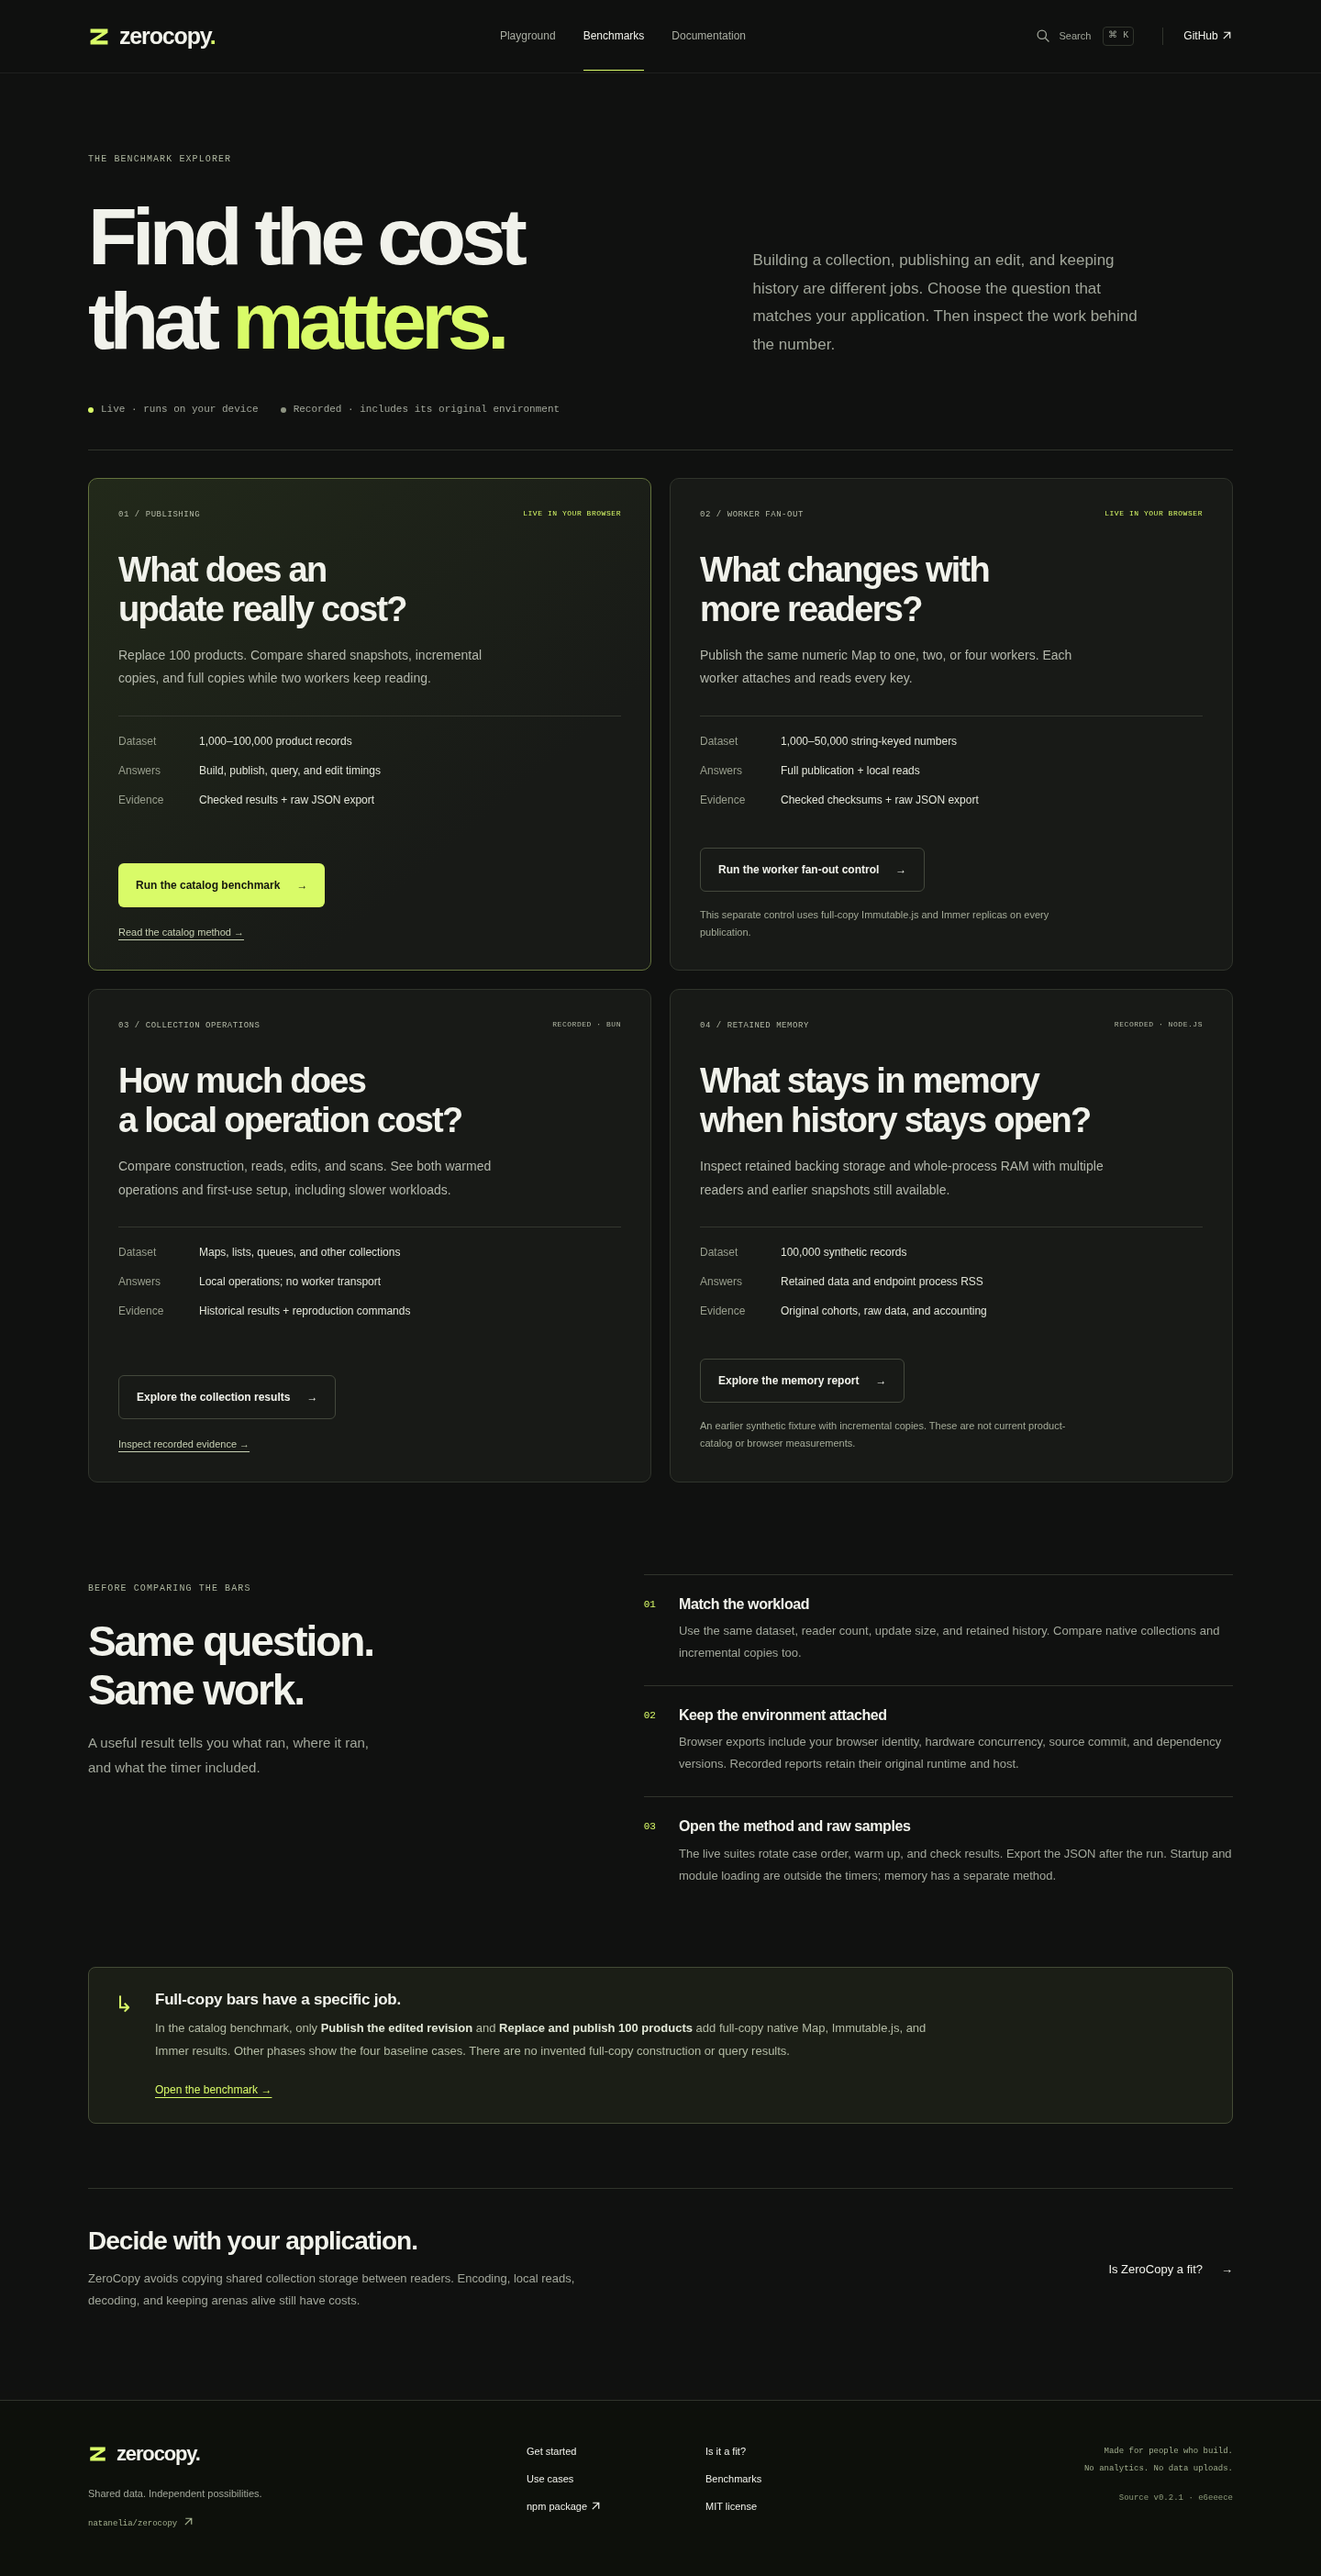
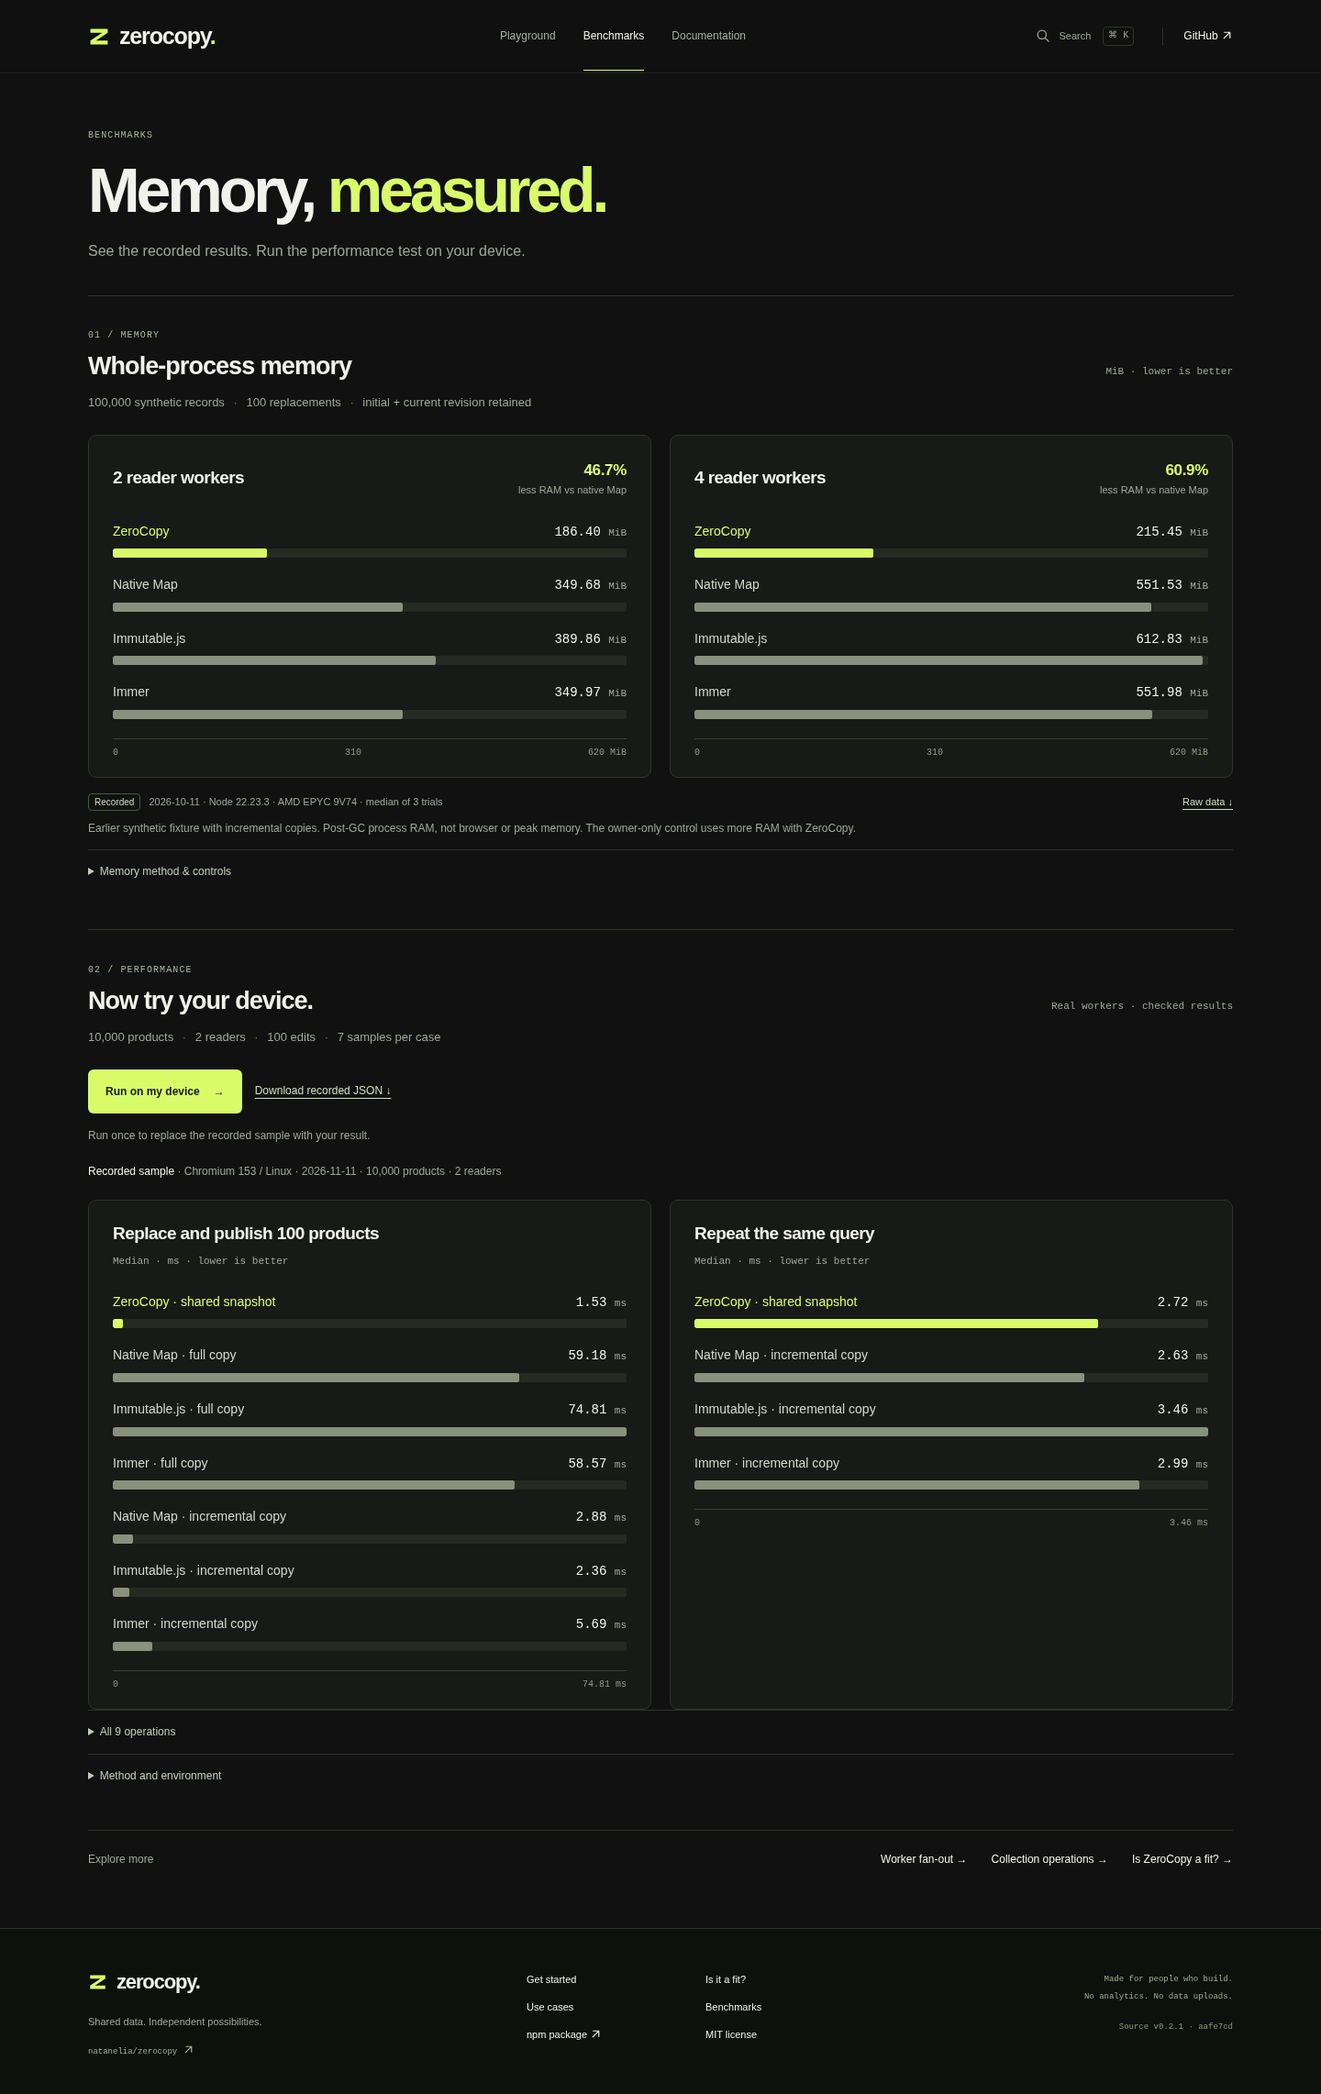
Add desktop and mobile screenshots of the simplified benchmark page

diff --git a/website/review/README.md b/website/review/README.md
@@ -1,32 +1,37 @@
 # Website redesign review
 
-The homepage explains the shared-memory model; Snapshot Studio demonstrates actual worker behavior; the benchmark explorer directs developers to the right measured workload; the adoption guide makes the constraints visible before setup.
+The homepage explains the shared-memory model; Snapshot Studio demonstrates actual worker behavior; the benchmark page leads with memory charts and a one-click performance run; the adoption guide makes the constraints visible before setup.
 
 ## Screenshots
 
-These are browser captures of source commit `e6eeececc3fedf485b34d98e47c9c6f1803e4cba`, built at `/zerocopy/` in Chromium 153.0.8010.0. The evidence commit only adds this directory. There are no mocked worker responses or painted-over results. The studio shows three real workers at revision 2, with pinned stock values of 12, 7, and 12 while the current stock is 4.
+The homepage, studio, and adoption captures use source commit `e6eeececc3fedf485b34d98e47c9c6f1803e4cba`. The updated benchmark captures use source commit `aafe7cd5138c96b1da379442a074bf5e08f38a2d`. Both were built at `/zerocopy/` in Chromium 153.0.8010.0. There are no mocked worker responses or painted-over results. The studio shows three real workers at revision 2, with pinned stock values of 12, 7, and 12 while the current stock is 4.
+
+The benchmark screenshots show the initial page, including the original verified Node memory measurements and a clearly labelled browser recording. The performance recording was captured on source `ab1eae5c2ecc8497ed1b5a4c422febc0e5e4f492` with 10,000 products, two readers, and 100 replacements. All 63 records remain downloadable. Clicking **Run on my device** replaces those recorded timings with the completed local run.
 
 - [Desktop homepage](screenshots/home-desktop.png)
 - [Mobile homepage](screenshots/home-mobile.png)
 - [Desktop snapshot studio](screenshots/studio-desktop.png)
 - [Mobile snapshot studio](screenshots/studio-mobile.png)
-- [Benchmark explorer](screenshots/benchmarks-desktop.png)
+- [Desktop benchmark dashboard](screenshots/benchmarks-desktop.png)
+- [Mobile benchmark dashboard](screenshots/benchmarks-mobile.png)
 - [Adoption guide](screenshots/adoption-desktop.png)
-- [Capture settings and source identity](screenshots/capture.json)
+- [Original capture settings and source identity](screenshots/capture.json)
+- [Benchmark capture settings and recording identity](screenshots/benchmark-capture.json)
 
 The mobile captures use a 390 × 844 viewport and include the full scrollable page. The desktop homepage and adoption guide use a 1440 × 1000 viewport; the other desktop captures include the full page. Reduced motion is enabled for deterministic screenshots.
 
 ## Verified locally
 
 - Library WASM and browser build, then the 34-page static website build.
-- 157 website tests pass at root and the GitHub Pages project prefix.
+- 160 website tests pass at root and the GitHub Pages project prefix.
 - Chromium: home interactions, keyboard controls, safe local search, copy behavior, no-JavaScript content, documentation navigation, and mobile overflow.
 - Real studio workers: drafts and publication, three readers, independent pins, late joins, bounded history, invalid input, canceled startup, disconnect/reconnect, and navigation cleanup.
 - Product-catalog workers: 1,000 and 100,000 products, sparse edits, retained revisions, and all 63 benchmark records with exact per-phase copy modes and raw exports.
 - Memory charts: values, scales, source provenance, keyboard disclosures, local exports, and 1440/768/390/320-pixel layouts.
+- Benchmark dashboard: recorded results without JavaScript, one-click 10,000-product execution, all 63 exported records, source labels, keyboard disclosures, cancellation/failure, and 390/320-pixel layouts.
 - Headerless hosting: scoped service-worker setup and real shared-memory operation in Chromium.
 
-WebKit was not installed in the local runner. The existing hosted workflow retains its Chromium and WebKit checks, and the studio suite is added at the root, project, and commit-preview prefixes. This change makes no new performance claims. The library and benchmark measurement engines are unchanged.
+WebKit was not installed in the local runner. The previous revision `ab1eae5c2ecc8497ed1b5a4c422febc0e5e4f492` passed the full hosted matrix, including Chromium and WebKit. The updated workflow adds the dashboard browser suite and checks its isolation scope at root, project, and commit-preview prefixes. The recorded timings describe one environment; they are not a general performance guarantee. The library and benchmark measurement logic are unchanged.
 
 ## Reproduce captures
 
@@ -35,6 +40,7 @@ Build the library using the repository setup, then:
 ```sh
 SITE_BASE=/zerocopy/ SITE_ORIGIN=https://natanelia.github.io node website/build.mjs
 node website/tests/capture-review.mjs
+node website/tests/capture-benchmarks.mjs
 ```
 
 Set `CHROMIUM_EXECUTABLE` when using a local Chromium executable. Screenshot binaries live here, outside `website/assets/` and `_site/`, so they are not shipped with the site or passed to the text-only Pages publisher.
